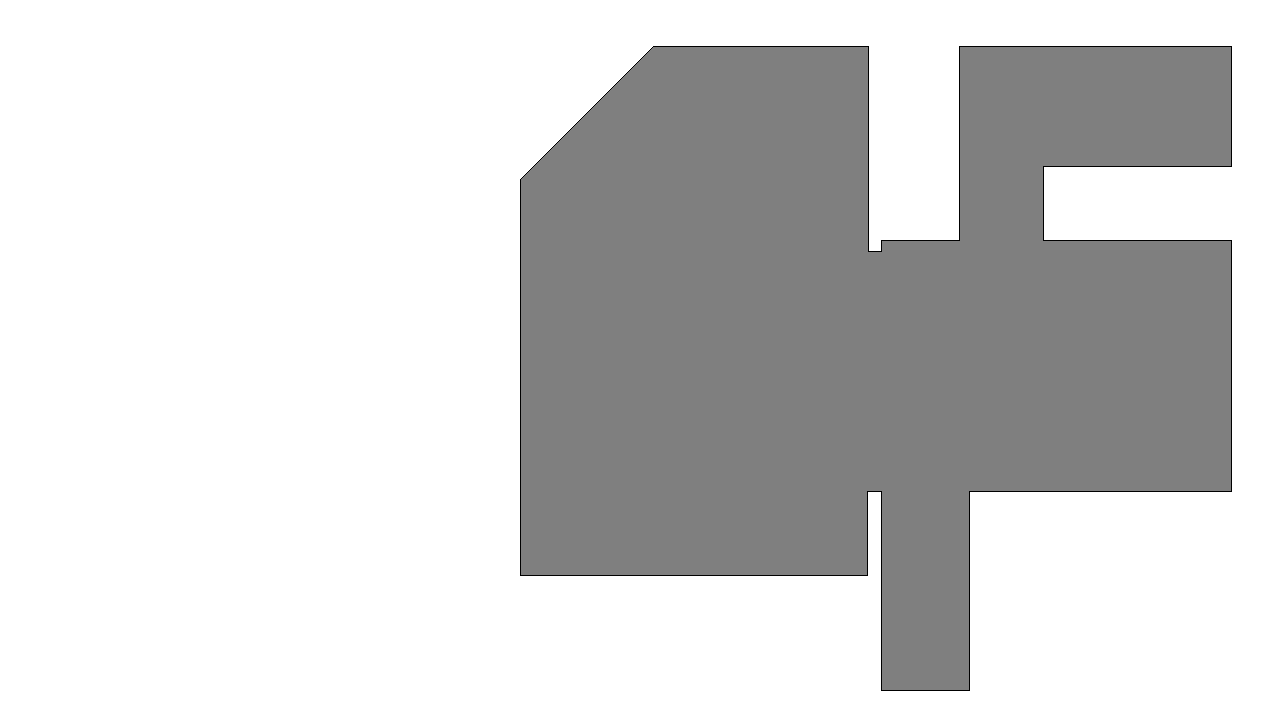
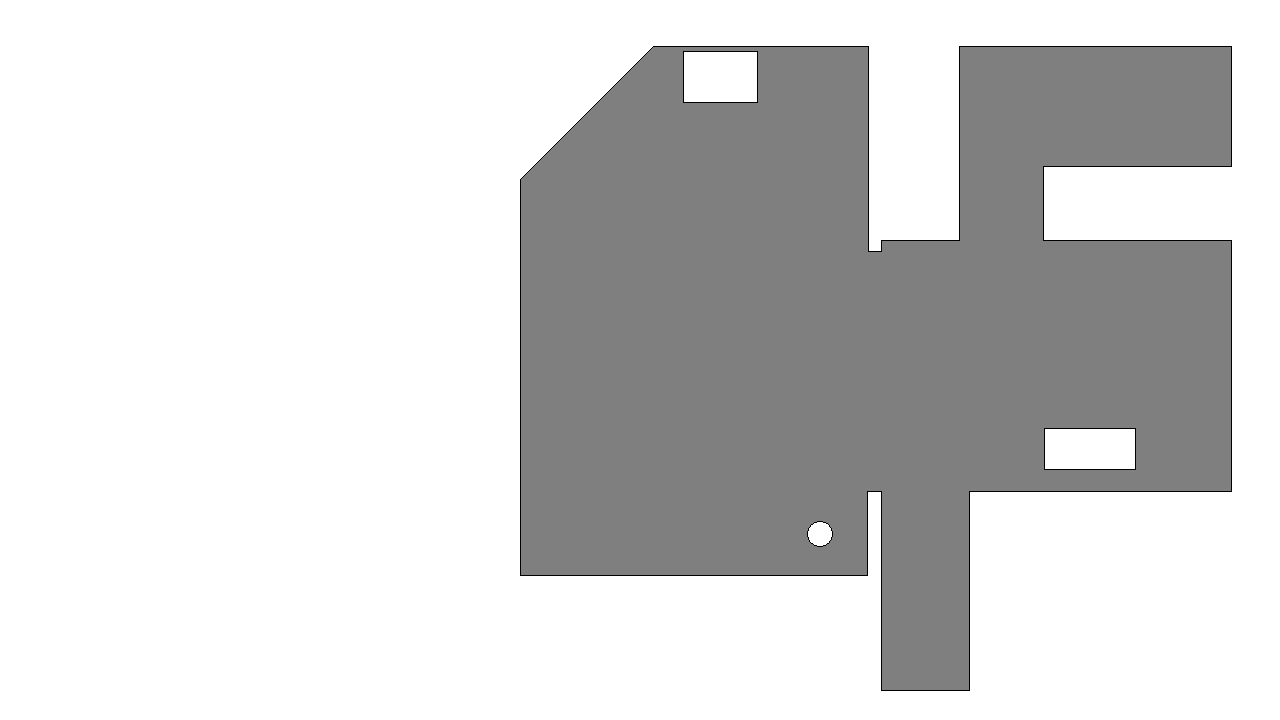
inner counters
Tweaked fake lidar to generate range measurements for contours within the outer contour.

Changed region(s): [[0.8125, 0.5806, 0.9062, 0.6722], [0.5312, 0.0611, 0.5938, 0.1528], [0.625, 0.7028, 0.6562, 0.7639]]

diff --git a/FakeLidar.cpp b/FakeLidar.cpp
@@ -54,17 +54,19 @@ namespace cpoz
         // room should be a solid blob
         // "inside" pixels are black or gray, background is white
         img_floorplan = imread(rspath, IMREAD_GRAYSCALE);
-        Mat img_test = Mat(img_floorplan.size(), CV_8U);
         Mat img_binary = (img_floorplan < 240);
 
         // extract contours of room
         // use "simple" approximation to encode long straight segments as two points
-        findContours(img_binary, contours, cv::RETR_EXTERNAL, cv::CHAIN_APPROX_SIMPLE);
-#if 0
-        // generate test image
-        drawContours(img_test, contours, 0, 128, 1);
-        imwrite("zzfloorplan.png", img_test);
-#endif
+        findContours(img_binary, contours, cv::RETR_LIST, cv::CHAIN_APPROX_SIMPLE);
+    }
+
+
+    void FakeLidar::draw_floorplan(const std::string& rspath) const
+    {
+        Mat img_test = Mat(img_floorplan.size(), CV_8U);
+        drawContours(img_test, contours, -1, 128, 1);
+        imwrite(rspath, img_test);
     }
 
 
@@ -90,8 +92,6 @@ namespace cpoz
 
     void FakeLidar::run_scan(void)
     {
-        const size_t sz = contours[0].size();
-
         // flush previous results
         last_scan.clear();
         jitter_cos_sin.clear();
@@ -125,87 +125,92 @@ namespace cpoz
 
             // check for intersection with all contour line segments
             // wraparound at end of array to get points for final segment
-            for (size_t nn = 0; nn < sz; nn++)
+            for (size_t mm = 0; mm < contours.size(); mm++)
             {
-                cv::Point pt0 = contours[0][nn];
-                cv::Point pt1 = contours[0][(nn + 1) % sz];
+                const size_t sz = contours[mm].size();
 
-                // solve parametric system where rays from pt0 and pt1 intersect
-                //
-                // a1 + (dx1 * t1) = (dx0 * t0) + a0   equ #1
-                // b1 + (dy1 * t1) = (dy0 * t0) + b0   equ #2
-                //
-                // t1 = ((dx0 * t0) + a0 - a1) / dx1   equ #3
-                // t1 = ((dy0 * t0) + b0 - b1) / dy1   equ #4
-
-                // substitute #3 into #2  (|dx1| > 0)
-                //
-                // b1 - b0 + (dy1 * (((dx0 * t0) + a0 - a1) / dx1)) = (dy0 * t0)
-                // dx1*(b1 - b0) + (dy1 * (dx0 * t0)) + dy1*(a0 - a1) = (dy0 * t0)*dx1
-                // dx1*(b1 - b0) + (dy1 * (a0 - a1)) = (dy0 * t0)*dx1 - (dy1 * ((dx0 * t0))
-
-                // substitute #4 into #1  (|dy1| > 0)
-                //
-                // a1 - a0 + (dx1 * (((dy0 * t0) + b0 - b1) / dy1)) = (dx0 * t0)
-                // dy1*(a1 - a0) + (dx1 * (dy0 * t0)) + dx1*(b0 - b1) = (dx0 * t0)*dy1
-                // dy1*(a1 - a0) + (dx1 * (b0 - b1)) = (dx0 * t0)*dy1 - (dx1 * ((dy0 * t0))
-
-                // determine length of current segment
-                // and unit vector from start point of segment
-                double dx1 = pt1.x - pt0.x;
-                double dy1 = pt1.y - pt0.y;
-                double seglen = sqrt((dx1 * dx1) + (dy1 * dy1));
-                dx1 = dx1 / seglen;
-                dy1 = dy1 / seglen;
-
-                double a1 = pt0.x;
-                double b1 = pt0.y;
-
-                // get unit vector and start point for scan
-                double dx0 = r.x;
-                double dy0 = r.y;
-                double a0 = world_pos.x;
-                double b0 = world_pos.y;
-
-                double t0;
-                double t1;
-                
-                // determine which solution to use to prevent divide-by-zero
-                // solve for t0 and then substitute t0 back into equation to get t1
-
-                if (abs(dx1) > 1e-6)
+                for (size_t nn = 0; nn < sz; nn++)
                 {
-                    t0 = ((dx1 * (b1 - b0)) + (dy1 * (a0 - a1))) / ((dx1 * dy0) - (dx0 * dy1));
-                    t1 = ((dx0 * t0) + a0 - a1) / dx1;
-                }
-                else if (abs(dy1) > 1e-6)
-                {
-                    t0 = ((dy1 * (a1 - a0)) + (dx1 * (b0 - b1))) / ((dx0 * dy1) - (dx1 * dy0));
-                    t1 = ((dy0 * t0) + b0 - b1) / dy1;
-                }
+                    cv::Point pt0 = contours[mm][nn];
+                    cv::Point pt1 = contours[mm][(nn + 1) % sz];
 
-                double xr = (t0 * r.x);
-                double yr = (t0 * r.y);
+                    // solve parametric system where rays from pt0 and pt1 intersect
+                    //
+                    // a1 + (dx1 * t1) = (dx0 * t0) + a0   equ #1
+                    // b1 + (dy1 * t1) = (dy0 * t0) + b0   equ #2
+                    //
+                    // t1 = ((dx0 * t0) + a0 - a1) / dx1   equ #3
+                    // t1 = ((dy0 * t0) + b0 - b1) / dy1   equ #4
+
+                    // substitute #3 into #2  (|dx1| > 0)
+                    //
+                    // b1 - b0 + (dy1 * (((dx0 * t0) + a0 - a1) / dx1)) = (dy0 * t0)
+                    // dx1*(b1 - b0) + (dy1 * (dx0 * t0)) + dy1*(a0 - a1) = (dy0 * t0)*dx1
+                    // dx1*(b1 - b0) + (dy1 * (a0 - a1)) = (dy0 * t0)*dx1 - (dy1 * ((dx0 * t0))
+
+                    // substitute #4 into #1  (|dy1| > 0)
+                    //
+                    // a1 - a0 + (dx1 * (((dy0 * t0) + b0 - b1) / dy1)) = (dx0 * t0)
+                    // dy1*(a1 - a0) + (dx1 * (dy0 * t0)) + dx1*(b0 - b1) = (dx0 * t0)*dy1
+                    // dy1*(a1 - a0) + (dx1 * (b0 - b1)) = (dx0 * t0)*dy1 - (dx1 * ((dy0 * t0))
+
+                    // determine length of current segment
+                    // and unit vector from start point of segment
+                    double dx1 = pt1.x - pt0.x;
+                    double dy1 = pt1.y - pt0.y;
+                    double seglen = sqrt((dx1 * dx1) + (dy1 * dy1));
+                    dx1 = dx1 / seglen;
+                    dy1 = dy1 / seglen;
+
+                    double a1 = pt0.x;
+                    double b1 = pt0.y;
+
+                    // get unit vector and start point for scan
+                    double dx0 = r.x;
+                    double dy0 = r.y;
+                    double a0 = world_pos.x;
+                    double b0 = world_pos.y;
+
+                    double t0;
+                    double t1;
+
+                    // determine which solution to use to prevent divide-by-zero
+                    // solve for t0 and then substitute t0 back into equation to get t1
+
+                    if (abs(dx1) > 1e-6)
+                    {
+                        t0 = ((dx1 * (b1 - b0)) + (dy1 * (a0 - a1))) / ((dx1 * dy0) - (dx0 * dy1));
+                        t1 = ((dx0 * t0) + a0 - a1) / dx1;
+                    }
+                    else if (abs(dy1) > 1e-6)
+                    {
+                        t0 = ((dy1 * (a1 - a0)) + (dx1 * (b0 - b1))) / ((dx0 * dy1) - (dx1 * dy0));
+                        t1 = ((dy0 * t0) + b0 - b1) / dy1;
+                    }
+
+                    double xr = (t0 * r.x);
+                    double yr = (t0 * r.y);
 
 #if 0
-                // after solving for t0 and t0
-                // (x0, y0) should equal (x1, y1)
-                // that can be tested here
-                double x0 = xr + a0;
-                double y0 = yr + b0;
-                double x1 = (t1 * dx1) + a1;
-                double y1 = (t1 * dy1) + b1;
+                    // after solving for t0 and t0
+                    // (x0, y0) should equal (x1, y1)
+                    // that can be tested here
+                    double x0 = xr + a0;
+                    double y0 = yr + b0;
+                    double x1 = (t1 * dx1) + a1;
+                    double y1 = (t1 * dy1) + b1;
 #endif
 
-                // solution must have non-negative t0 and t1 terms
-                // and the length of t1 must be withing segment length
-                // whichever solution is closest (min range) will be the measurement
-                if ((t0 >= 0) && (t1 >= 0) && (t1 <= seglen))
-                {
-                    double rng = sqrt((xr * xr) + (yr * yr));
-                    if (rng < rmin)
+                    // solution must have non-negative t0 and t1 terms
+                    // and the length of t1 must be withing segment length
+                    // whichever solution is closest (min range) will be the measurement
+                    if ((t0 >= 0) && (t1 >= 0) && (t1 <= seglen))
                     {
-                        rmin = rng;
+                        double rng = sqrt((xr * xr) + (yr * yr));
+                        if (rng < rmin)
+                        {
+                            rmin = rng;
+                        }
                     }
                 }
             }

diff --git a/FakeLidar.h b/FakeLidar.h
@@ -43,21 +43,22 @@ namespace cpoz
 
         void run_scan(void);        ///< simulate a scan with noise
         
+        void draw_floorplan(const std::string& rspath) const;
+
         void draw_last_scan(cv::Mat& rimg, const cv::Scalar& rcolor) const;
 
         const std::vector<double>& get_last_scan(void) const { return last_scan; }
 
     public:
         
-        ///< power of 10 (1,10,100, etc.), power is digits after decimal pt.
-        int range_dec_pt_adjust;
+        int range_dec_pt_adjust;    ///< power of 10 (1,10,100, etc.), power is digits after decimal pt.
         
         double jitter_range_cm_u;   ///< indiv. range measurement jitter, default +-0.2cm
         double jitter_angle_deg_u;  ///< indiv. measurement angle jitter, default +-0.25deg
         double jitter_sync_deg_u;   ///< sync angle jitter, default +-0.25deg
 
-        bool is_angle_noise_enabled;
-        bool is_range_noise_enabled;
+        bool is_angle_noise_enabled;    ///< enable angle jitter for each measurement
+        bool is_range_noise_enabled;    ///< enable range jitter for each measurement
         
     private:
         
